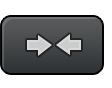
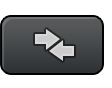
Test-Release "Channel": - design update auto receive button - bug fix: switch back button to normal state after receiving

Changed region(s): [[0.2143, 0.2955, 0.75, 0.7045]]

diff --git a/Classes/ViewController/HoccerViewControllerIPhone.m b/Classes/ViewController/HoccerViewControllerIPhone.m
@@ -416,6 +416,21 @@
     [self updateChannelButton];
 }
 
+- (void)linccer:(HCLinccer *)linncer didReceiveData:(NSArray *)data {
+    
+    [super linccer:linncer didReceiveData:data];
+    
+    BOOL isChannelMode = [(HoccerAppDelegate *)[UIApplication sharedApplication].delegate channelMode];
+    if (isChannelMode) {
+        if (USES_DEBUG_MESSAGES) { NSLog(@"HoccerViewController linccer:(HCLinccer *)linncer didReceiveData ---- isChannelMode"); }
+        
+        self.channelAutoReceiveMode = NO;
+        
+        [self updateChannelButton];
+    }
+}
+
+
 - (void)setDesktopBackgroundImage:(NSMutableArray *)others
 {
     CGRect screenRect = [[UIScreen mainScreen] bounds];

diff --git a/Classes/ViewController/HoccerViewController.m b/Classes/ViewController/HoccerViewController.m
@@ -993,7 +993,7 @@ typedef enum {
     }
 }
 
-- (void) linccer:(HCLinccer *)linncer didReceiveData:(NSArray *)data {	
+- (void) linccer:(HCLinccer *)linncer didReceiveData:(NSArray *)data {
     failcounter = 0;
 	[self ensureViewIsHoccable];
 	
@@ -1016,8 +1016,8 @@ typedef enum {
         } else {
             [self showSuccess: item];
         }
-        
-        [desktopView reloadData];        
+
+        [desktopView reloadData];
     }
 }
 
